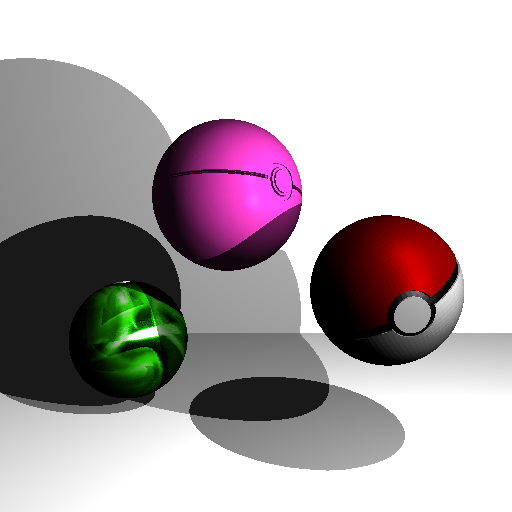
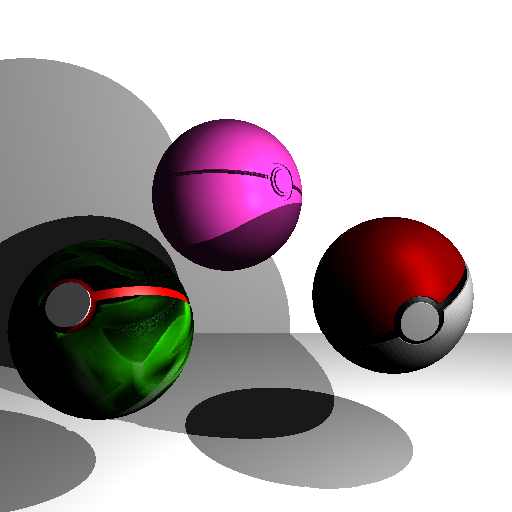
arranged pokeballs in nice configuration, center is still purple not glass

diff --git a/raytracer/Src/ExampleScene.cpp b/raytracer/Src/ExampleScene.cpp
@@ -638,9 +638,9 @@ void ExampleScene::initializeFinalScene()
 
     //electric green pokeball
     rtPushMatrix();
-    rtTranslate(7.f,1.5f,9.f);
-    rtRotate(-60.f,15.f,0.f);
-    //    rtScale(.5f,.5f,.5f);
+    rtTranslate(7.5f,1.5f,12.f);
+    rtRotate(15.f,15.f,0.f);
+    rtScale(1.1f,1.1f,1.1f);
     rtTriangleMeshWithMaterialAndTexture("../Custom_Tests/obj_files/indiv_obj/pokeball5.obj",true,false);
     rtPopMatrix();
 
@@ -654,7 +654,7 @@ void ExampleScene::initializeFinalScene()
 //    rtBindTexture(tex_id);
 
     rtPushMatrix();
-    rtTranslate(13.f,2.5f,10.f);
+    rtTranslate(13.f,2.5f,10.5f);
     rtRotate(50.f,35.f,0.f);
 //    rtRotate(-90.f,5.f,0.f);
 //    rtScale(.5f,.5f,.5f);
